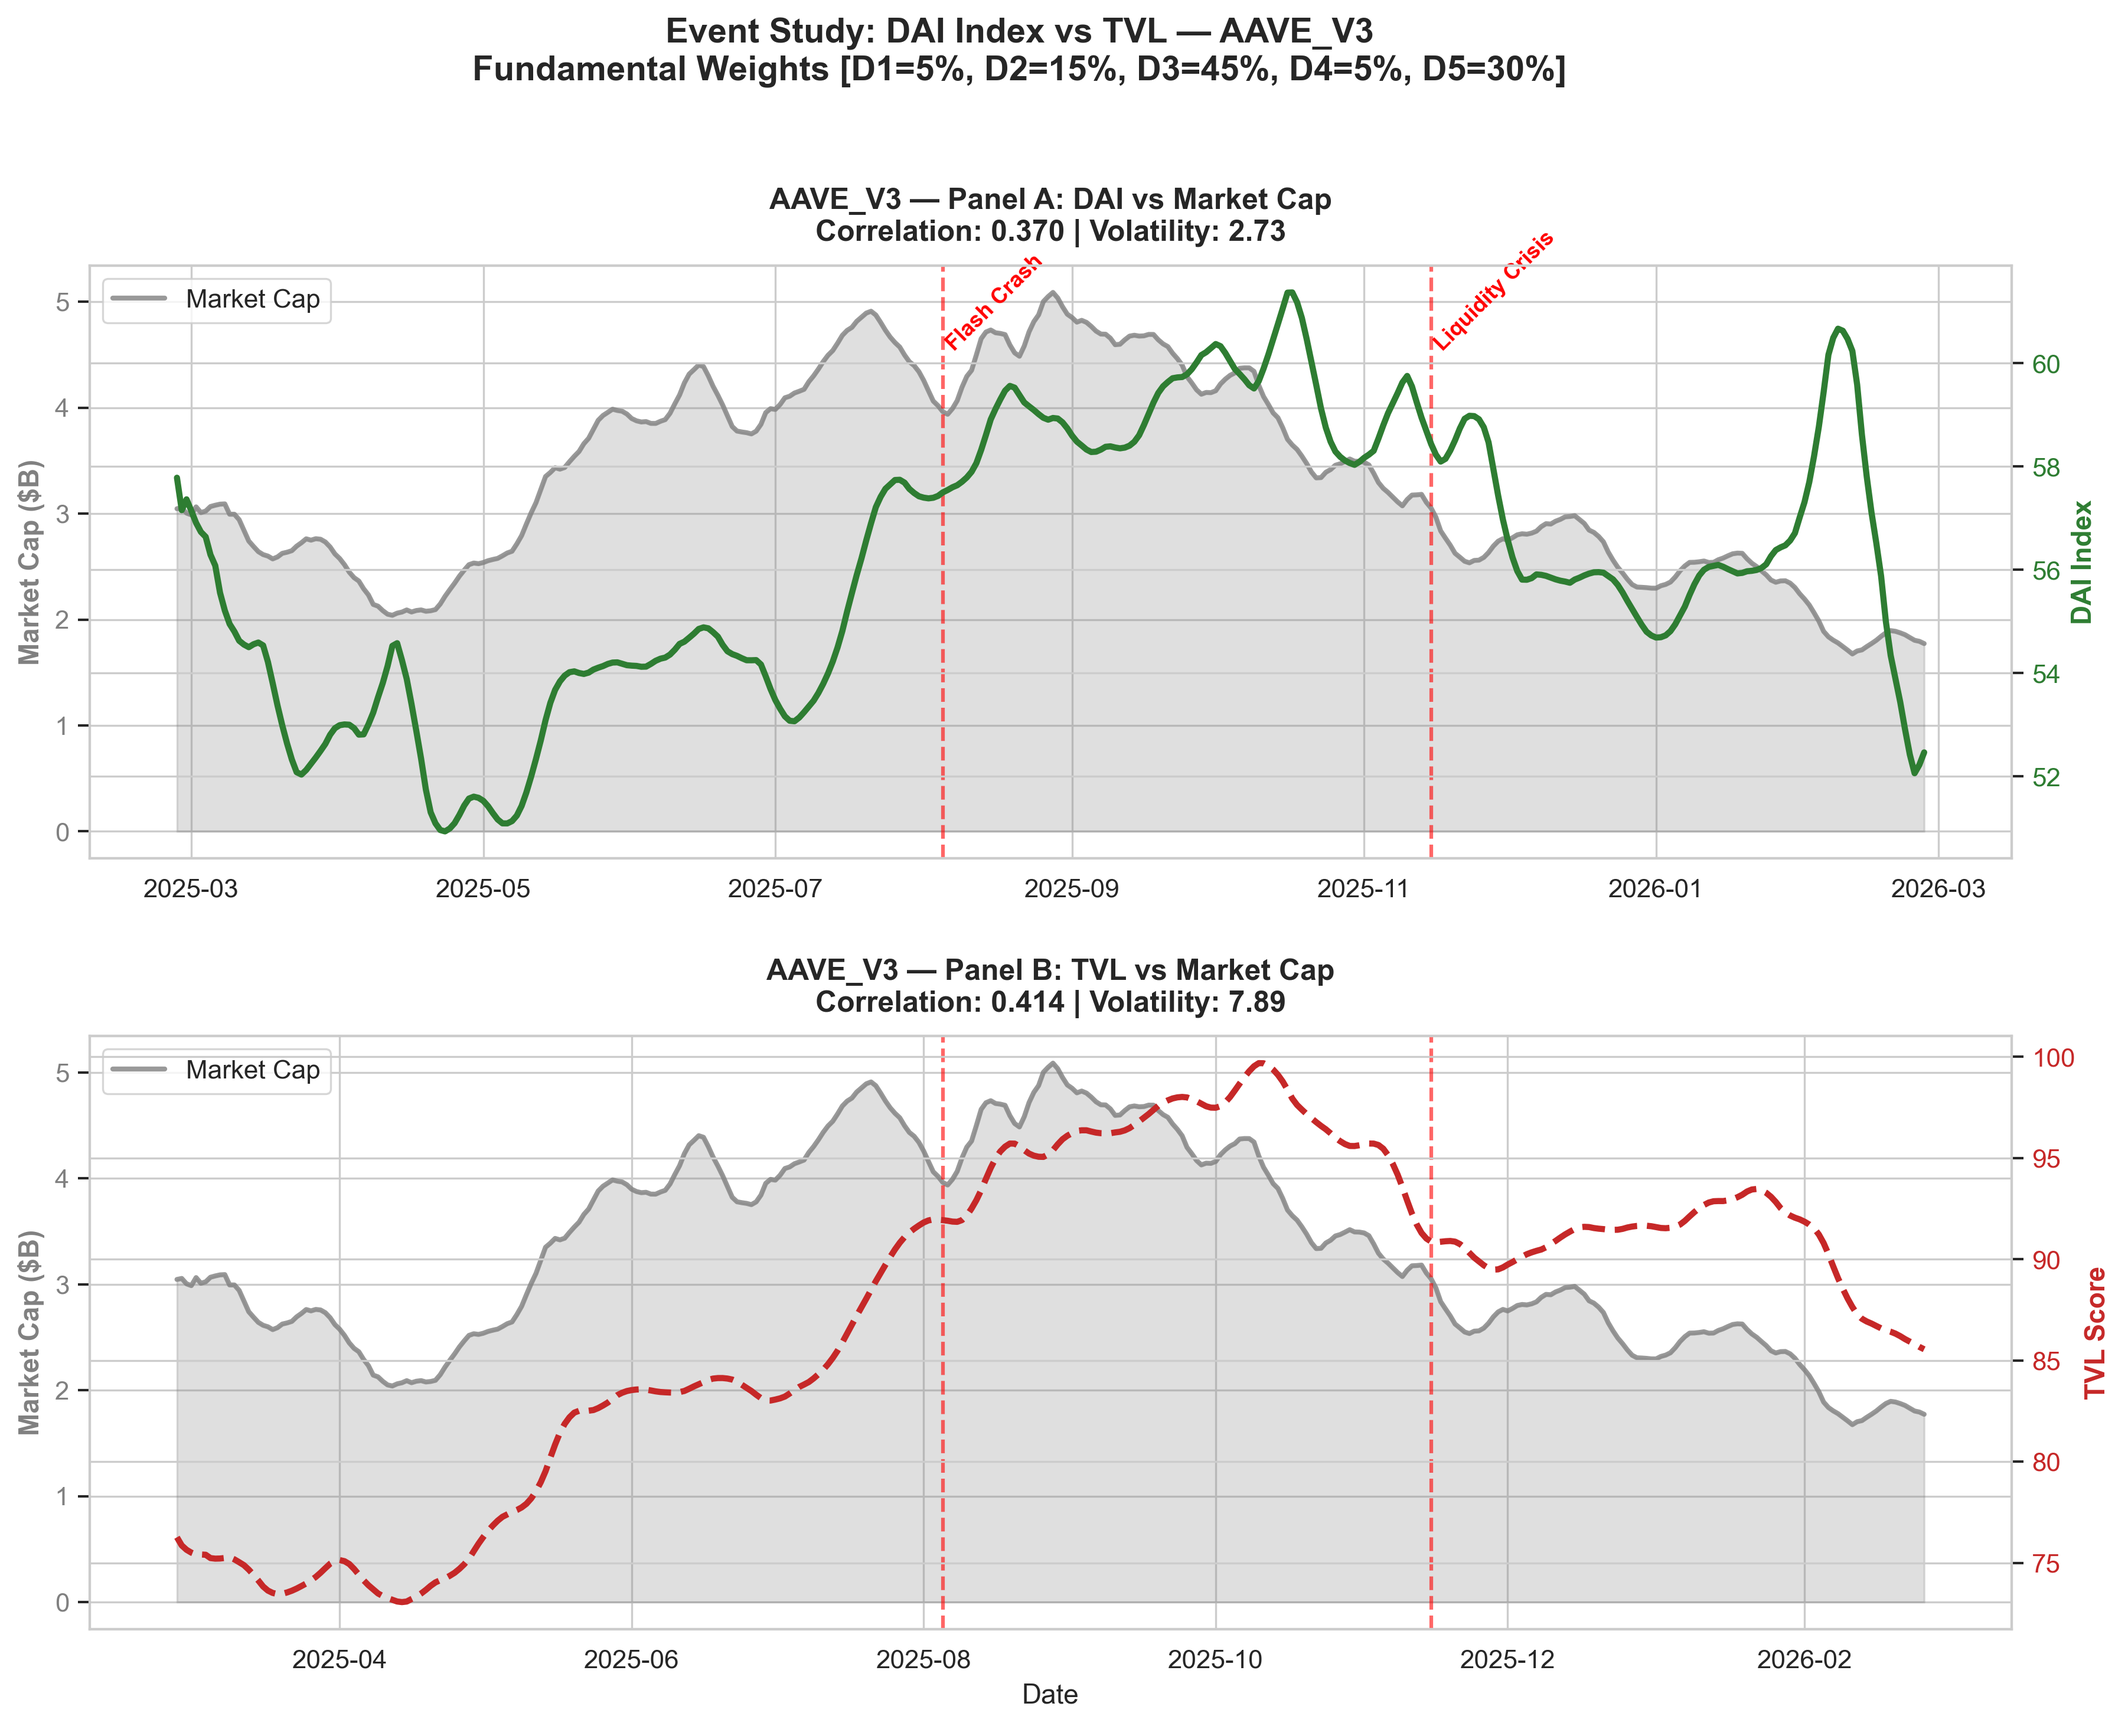
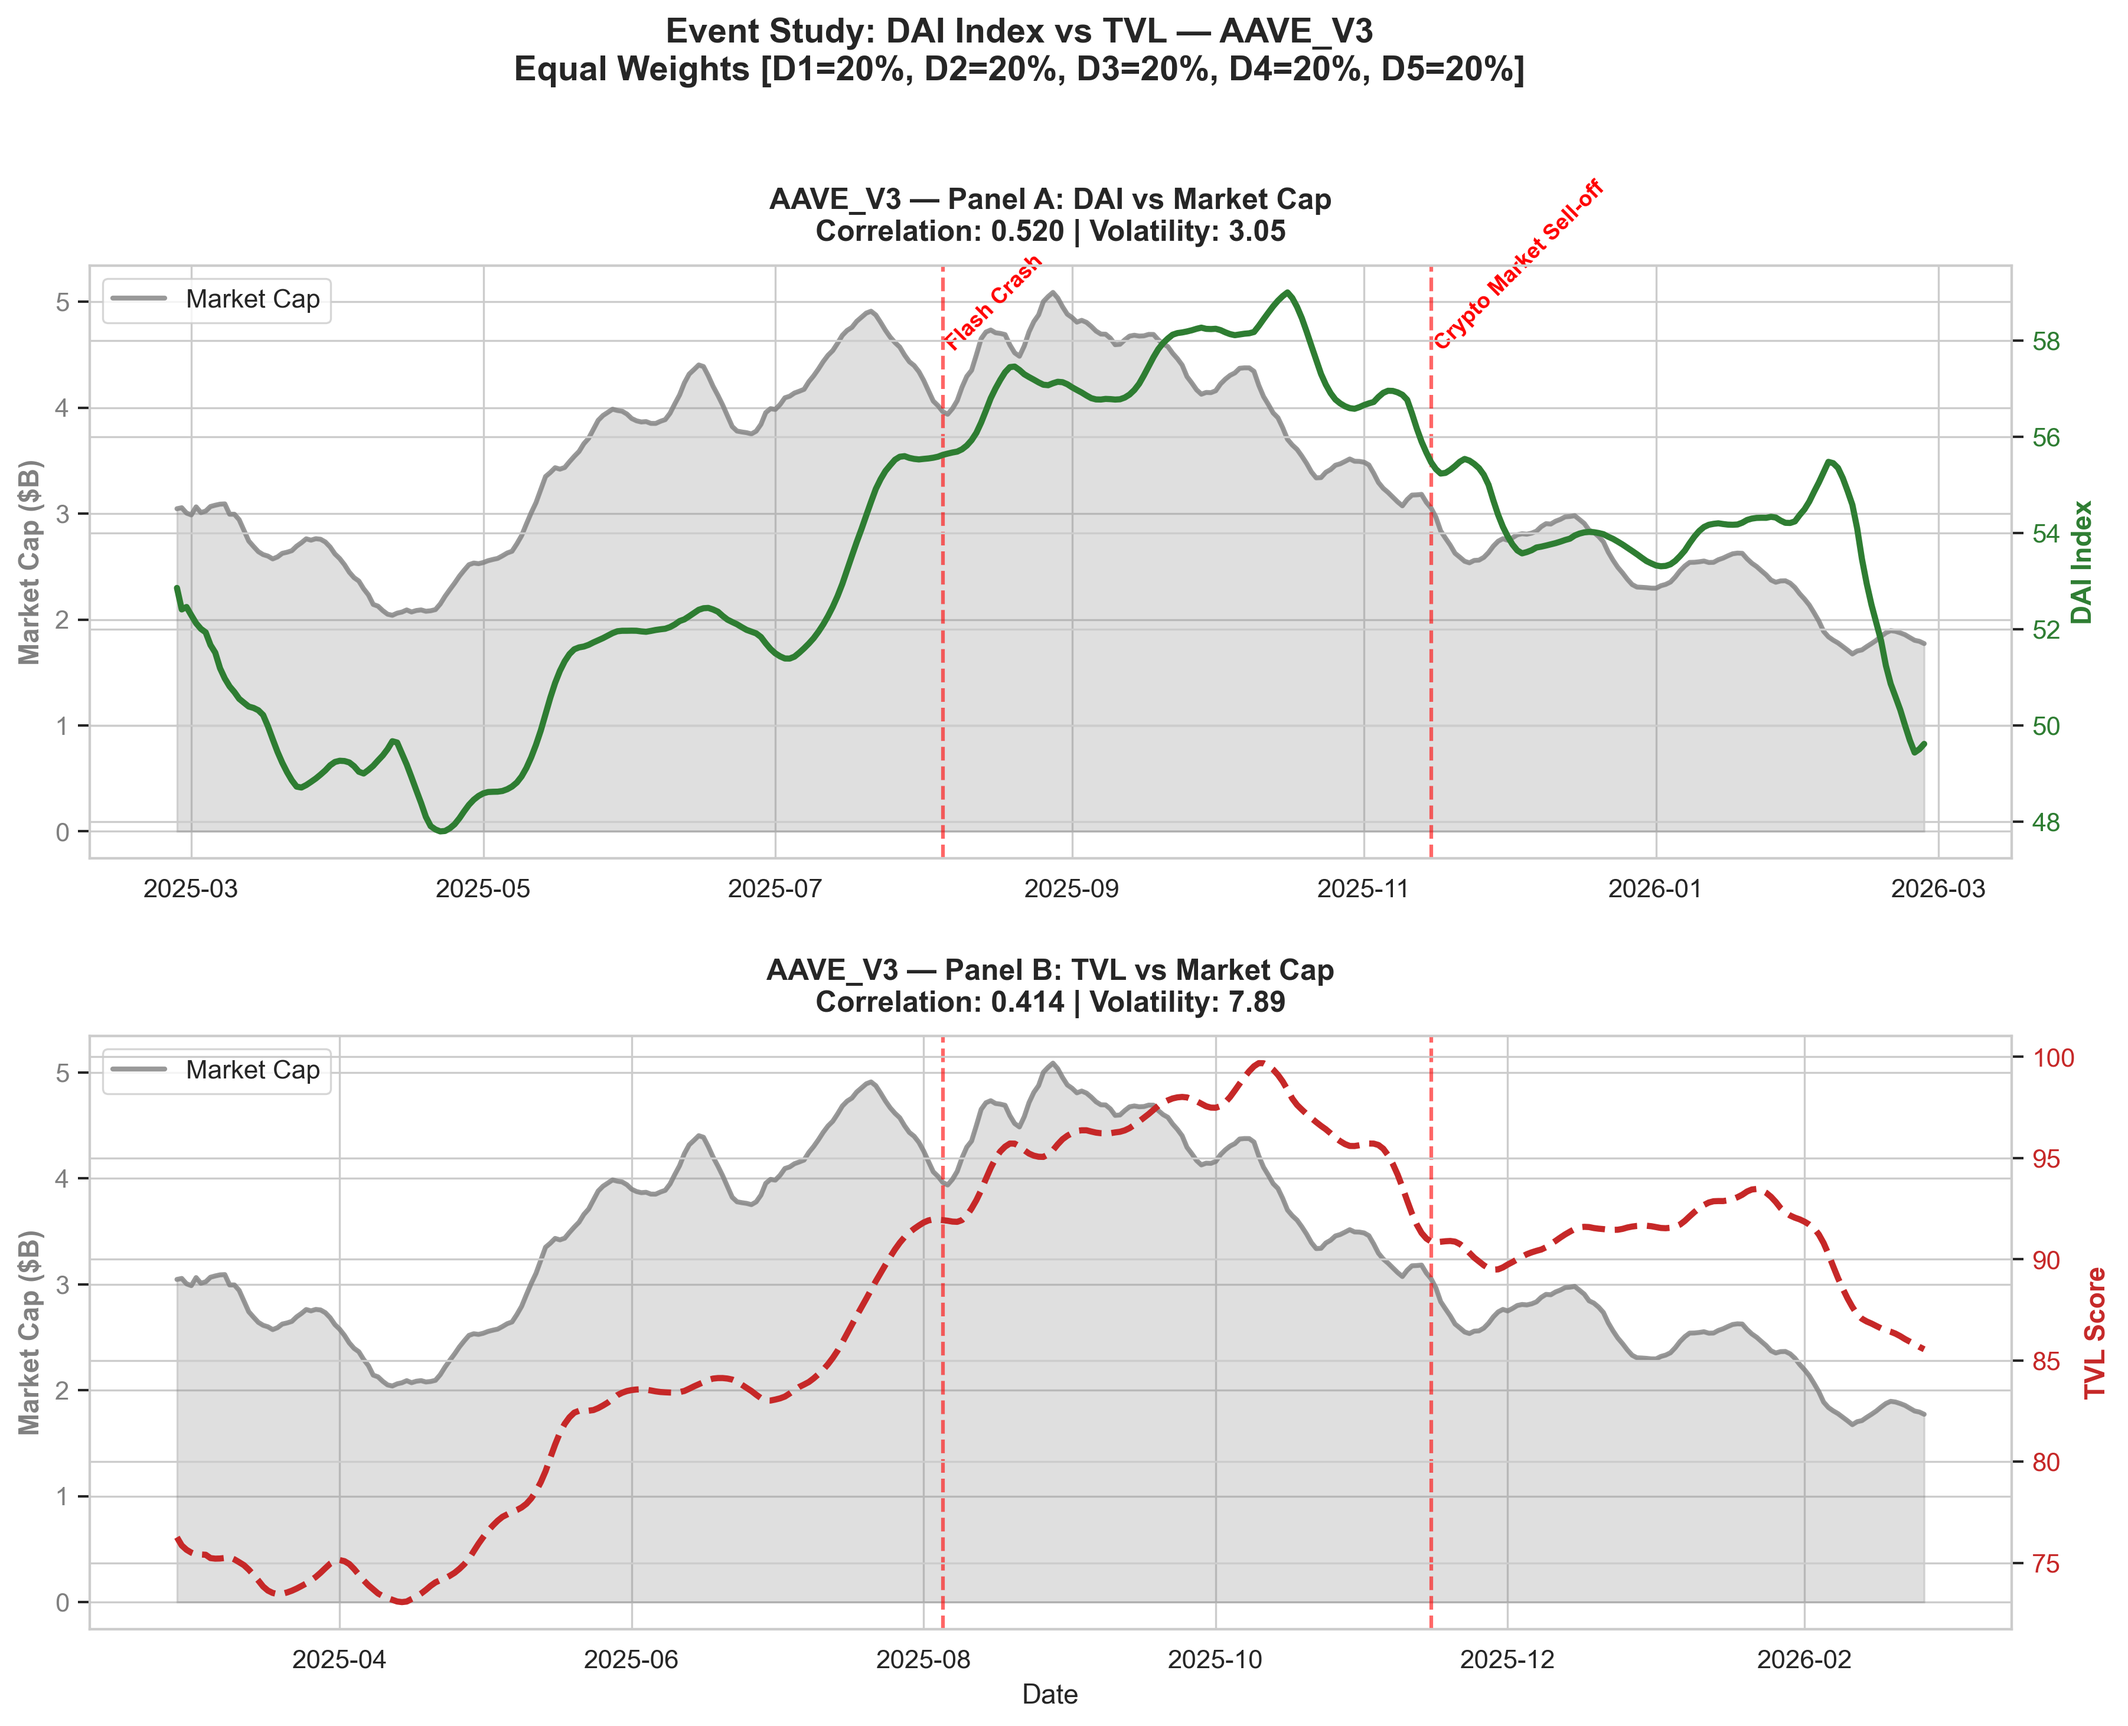
modify event study

diff --git a/src/analysis/event_study_plot.py b/src/analysis/event_study_plot.py
@@ -1,6 +1,6 @@
 """
 Event Study & Cross-Sectional Stability Analysis
-Visualizes the responsiveness of the DAI composite index vs. TVL in Fundamental weights [5%, 15%, 45%, 5%, 30%].
+Visualizes the responsiveness of the DAI composite index vs. TVL in Equal weights [20%, 20%, 20%, 20%, 20%].
 """
 
 import pandas as pd
@@ -13,9 +13,7 @@ import warnings
 
 warnings.filterwarnings('ignore')
 
-# ---------------------------------------------------------
 # Configuration & Styling
-# ---------------------------------------------------------
 sns.set_theme(style="whitegrid", context="paper", font_scale=1.2)
 
 # 5 Core Dimensions
@@ -27,9 +25,9 @@ DIMENSIONS = [
     'D5_Financial'
 ]
 
-# Fundamental weights (optimal based on Granger causality analysis)
-# D1=5%, D2=15%, D3=45%, D4=5%, D5=30%
-WEIGHTS_FUND = [0.05, 0.15, 0.45, 0.05, 0.30]
+# Equal weights (baseline specification for primary DAI)
+# D1=20%, D2=20%, D3=20%, D4=20%, D5=20%
+WEIGHTS_EQUAL = [0.20, 0.20, 0.20, 0.20, 0.20]
 
 # Recommended protocols with meaningful events
 EVENTS = {
@@ -39,7 +37,7 @@ EVENTS = {
     ],
     'aave_v3': [
         ('2025-08-05', 'Flash Crash'),
-        ('2025-11-15', 'Liquidity Crisis')
+        ('2025-11-15', 'Crypto Market Sell-off')
     ]
 }
 
@@ -49,7 +47,7 @@ def get_project_root():
 
 
 def load_and_prep_data(project_root):
-    """Load data and calculate DAI_FUND with Fundamental weights."""
+    """Load data and calculate DAI_EQUAL with Equal weights."""
     data_path = project_root / 'data' / 'analysis' / 'final_index_with_mcap.csv'
 
     if not data_path.exists():
@@ -58,9 +56,9 @@ def load_and_prep_data(project_root):
     df = pd.read_csv(data_path)
     df['date'] = pd.to_datetime(df['date'])
 
-    # Calculate DAI_FUND using Fundamental weights
-    # Weights: D1_Capital=5%, D2_Liquidity=15%, D3_User_Activity=45%, D4_Output=5%, D5_Financial=30%
-    df['DAI_FUND'] = df[DIMENSIONS].dot(WEIGHTS_FUND)
+    # Calculate DAI_EQUAL using Equal weights
+    # Weights: D1_Capital=20%, D2_Liquidity=20%, D3_User_Activity=20%, D4_Output=20%, D5_Financial=20%
+    df['DAI_EQUAL'] = df[DIMENSIONS].dot(WEIGHTS_EQUAL)
 
     return df
 
@@ -79,15 +77,15 @@ def plot_event_study(df, protocol, events, output_dir):
         return None
 
     # Calculate correlation statistics
-    corr_dai = proto_df['DAI_FUND'].corr(proto_df['mcap'])
+    corr_dai = proto_df['DAI_EQUAL'].corr(proto_df['mcap'])
     corr_tvl = proto_df['tvl_score'].corr(proto_df['mcap'])
-    dai_vol = proto_df['DAI_FUND'].std()
+    dai_vol = proto_df['DAI_EQUAL'].std()
     tvl_vol = proto_df['tvl_score'].std()
     dai_adv = corr_dai - corr_tvl
 
     # Smooth series with 7-day rolling average
     proto_df['mcap_smooth'] = proto_df['mcap'].rolling(window=7, min_periods=1).mean()
-    proto_df['dai_smooth'] = proto_df['DAI_FUND'].rolling(window=7, min_periods=1).mean()
+    proto_df['dai_smooth'] = proto_df['DAI_EQUAL'].rolling(window=7, min_periods=1).mean()
     proto_df['tvl_smooth'] = proto_df['tvl_score'].rolling(window=7, min_periods=1).mean()
 
     # Create figure with two subplots (stacked)
@@ -107,7 +105,7 @@ def plot_event_study(df, protocol, events, output_dir):
     ax1.set_ylabel('Market Cap ($B)', color='gray', fontsize=11, fontweight='bold')
     ax1.tick_params(axis='y', labelcolor='gray')
 
-    # DAI_FUND (green solid)
+    # DAI_EQUAL (green solid)
     ax1_twin.plot(proto_df['date'], proto_df['dai_smooth'],
                   color='#2E7D32', linewidth=2.5,
                   label=f'DAI Index (r={corr_dai:.3f})')
@@ -128,9 +126,7 @@ def plot_event_study(df, protocol, events, output_dir):
                   fontweight='bold', fontsize=12, pad=10)
     ax1.legend(loc='upper left', frameon=True)
 
-    # ========================================
     # Panel B: TVL vs Market Cap
-    # ========================================
     ax2_twin = ax2.twinx()
 
     # Market Cap (grey area)
@@ -167,7 +163,7 @@ def plot_event_study(df, protocol, events, output_dir):
 
     # Main title
     fig.suptitle(f'Event Study: DAI Index vs TVL — {protocol.upper()}\n'
-                 f'Fundamental Weights [D1=5%, D2=15%, D3=45%, D4=5%, D5=30%]',
+                 f'Equal Weights [D1=20%, D2=20%, D3=20%, D4=20%, D5=20%]',
                  fontsize=14, fontweight='bold', y=1.02)
 
     plt.tight_layout()
